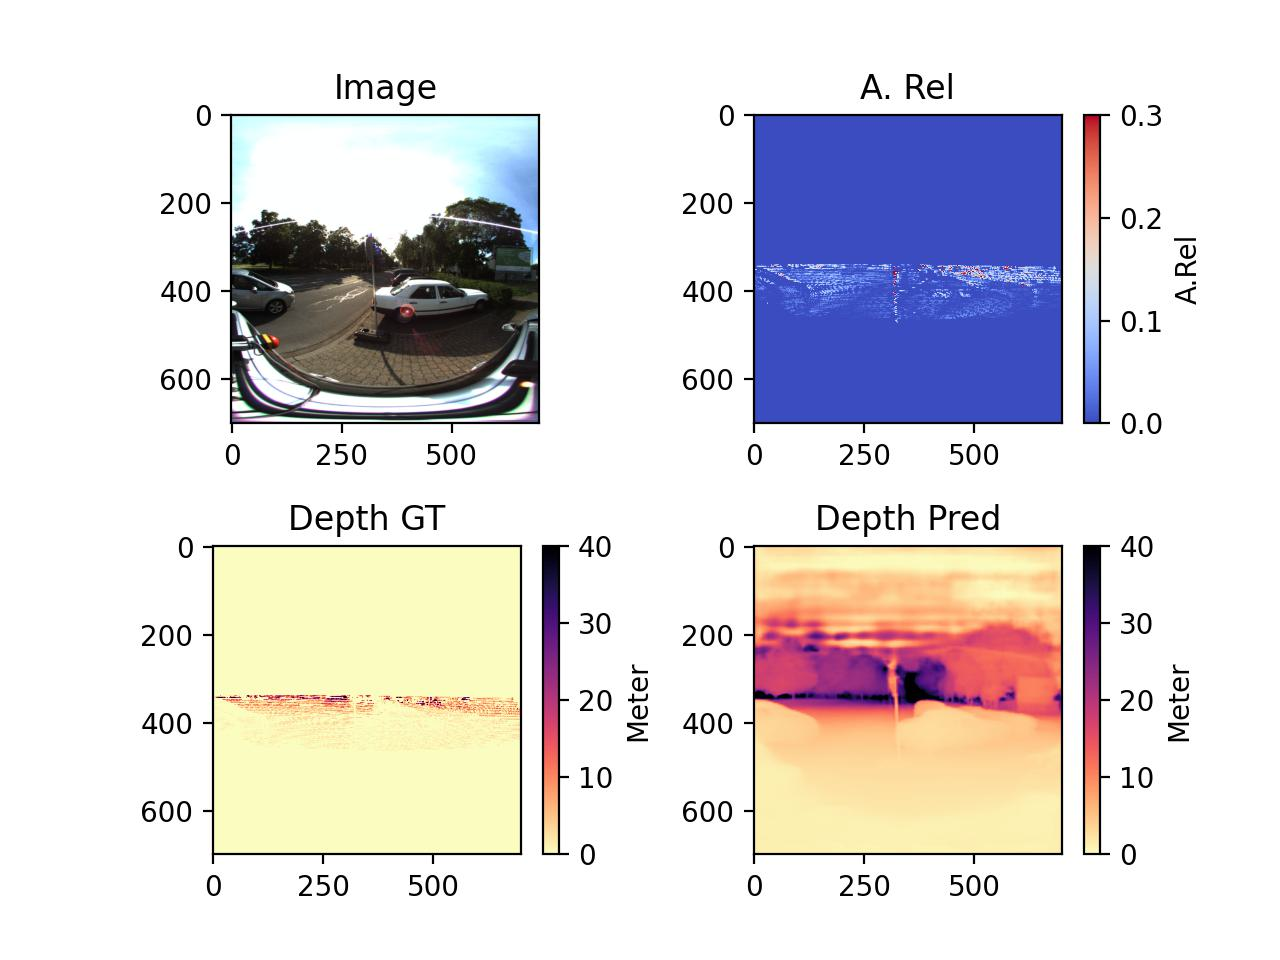
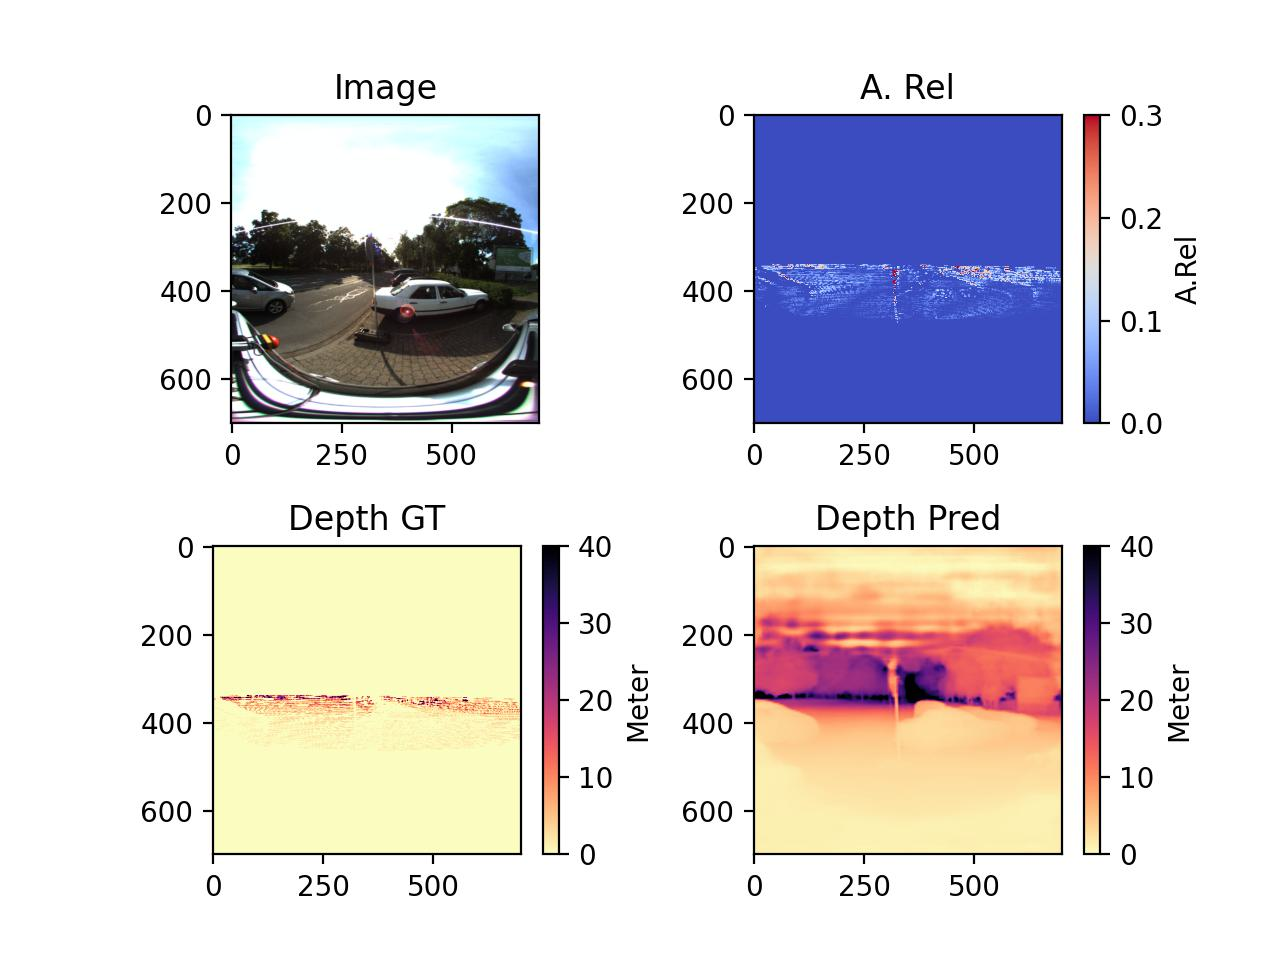
Adapt distortion model for gnomonic projection, unifying erp convertion function for all cameras

diff --git a/dac/utils/erp_geometry.py b/dac/utils/erp_geometry.py
@@ -132,15 +132,16 @@ def cam_to_erp_patch_fast(img, depth, mask_valid_depth, theta, phi, patch_h, pat
         torch.linspace(theta - wFOV_tgt/2, theta + wFOV_tgt/2, patch_w))
     lon_grid = lon_grid.float().reshape(1, -1)  # .repeat(num_rows*num_cols, 1)
     lat_grid = lat_grid.float().reshape(1, -1)  # .repeat(num_rows*num_cols, 1)
-    
+        
     # TODO: lat_grid may need cap to -pi/2 and pi/2 if crop size is large and pitch angle is large
-
     # compute corresponding perp image coordinates via Gnomonic Project explicitly (x, y given sphere radius 1 or f=1 perspective image)
     cos_c = torch.sin(cp[..., 1]) * torch.sin(lat_grid) + torch.cos(cp[..., 1]) * torch.cos(lat_grid) * torch.cos(
         lon_grid - cp[..., 0])
-    new_x = (torch.cos(lat_grid) * torch.sin(lon_grid - cp[..., 0])) / cos_c
-    new_y = (torch.cos(cp[..., 1]) * torch.sin(lat_grid) - torch.sin(cp[..., 1]) * torch.cos(lat_grid) * torch.cos(
-        lon_grid - cp[..., 0])) / cos_c
+    x_num = (torch.cos(lat_grid) * torch.sin(lon_grid - cp[..., 0]))
+    y_num = (torch.cos(cp[..., 1]) * torch.sin(lat_grid) - torch.sin(cp[..., 1]) * torch.cos(lat_grid) * torch.cos(
+        lon_grid - cp[..., 0]))
+    new_x = x_num / cos_c
+    new_y = y_num / cos_c
 
     # OPTIONAL: apply camera roll correction
     if roll is not None:
@@ -150,7 +151,7 @@ def cam_to_erp_patch_fast(img, depth, mask_valid_depth, theta, phi, patch_h, pat
         new_x = new_x_tmp
         new_y = new_y_tmp
 
-    # Scale augmentation can just modify new_x and new_y directly, with depth factor (TODO: should this be applied before projection? should not affect perspective projection)
+    # Scale augmentation can just modify new_x and new_y directly, with depth factor
     if scale_fac is not None:
         new_x *= scale_fac
         new_y *= scale_fac
@@ -159,7 +160,7 @@ def cam_to_erp_patch_fast(img, depth, mask_valid_depth, theta, phi, patch_h, pat
 
     # Important: this normalization needs to use the source perspective image FOV, for the grid sample function range [-1, 1]
     # Gnomonic Projection for OPENCV_FISHEYE model, only works for FOV < 180 degree
-    if cam_params['dataset'] == 'scannetpp' or cam_params['camera_model'] == 'OPENCV_FISHEYE':    
+    if 'camera_model' in cam_params.keys() and cam_params['camera_model'] == 'OPENCV_FISHEYE':    
         """
             Apply opencv distortion (Refer to: OpenCV)
         """
@@ -172,14 +173,19 @@ def cam_to_erp_patch_fast(img, depth, mask_valid_depth, theta, phi, patch_h, pat
         cx = cam_params['cx']
         cy = cam_params['cy']
 
-        r = np.sqrt(new_x*new_x + new_y*new_y)
-        theta = np.arctan(r)
+        # Option 1: original opencv fisheye distortion can not handle FOV >=180 degree or cos_c <= 0
+        # r = np.sqrt(new_x*new_x + new_y*new_y)
+        # theta = np.arctan(r)
+        # theta_d = theta * (1 + k1*theta*theta + k2*theta**4 + k3*theta**6 + k4*theta**8)        
+        # x_d = theta_d * new_x / (r+1e-9)
+        # y_d = theta_d * new_y / (r+1e-9)
 
-        # apply distortion
+        # Option 2: A more numerically stable version able to handle FOV >=180 degree, adapted for Gnomonic Projection
+        r = np.sqrt(x_num*x_num + y_num*y_num)
+        theta = np.arccos(cos_c)
         theta_d = theta * (1 + k1*theta*theta + k2*theta**4 + k3*theta**6 + k4*theta**8)
-        
-        x_d = theta_d * new_x / (r+1e-9)
-        y_d = theta_d * new_y / (r+1e-9)
+        x_d = theta_d * x_num / (r)
+        y_d = theta_d * y_num / (r)
         
         # project to image coordinates
         new_x = fx * x_d + cx
@@ -194,7 +200,7 @@ def cam_to_erp_patch_fast(img, depth, mask_valid_depth, theta, phi, patch_h, pat
         new_y /= (img_h/2)
         
     # Gnomonic Projection for MEI model, but only works for FOV < 180 degree (kitti360 is slightly beyond 180)
-    elif cam_params['camera_model'] == 'MEI':
+    elif 'camera_model' in cam_params.keys() and cam_params['camera_model'] == 'MEI':
         xi = cam_params['xi']
         k1 = cam_params['k1']
         k2 = cam_params['k2']
@@ -205,14 +211,9 @@ def cam_to_erp_patch_fast(img, depth, mask_valid_depth, theta, phi, patch_h, pat
         cx = cam_params['cx']
         cy = cam_params['cy']
         
-        # use spherical coordinates directly to avoid sigularity
-        # TODO: convert lon to scope [-pi, 0]? Need to debug on other datasets
-        x = np.cos(lat_grid) * np.cos(lon_grid - PI_2)
-        z = np.cos(lat_grid) * np.sin(lon_grid - PI_2)
-        y = np.sin(lat_grid)
-        
-        p_u = x / (z + xi)
-        p_v = y / (z + xi)
+        # Adpated for Gnomonic Projection
+        p_u = x_num / (cos_c + xi)
+        p_v = y_num / (cos_c + xi)
 
         # apply distortion
         ro2 = p_u*p_u + p_v*p_v
@@ -241,7 +242,7 @@ def cam_to_erp_patch_fast(img, depth, mask_valid_depth, theta, phi, patch_h, pat
     #     fy = cam_params['fy']
     #     cx = cam_params['cx']
     #     cy = cam_params['cy']
-        
+    #
     #     """
     #         Apply distortion (Refer to: NYUv2 Toolbox and http://www.vision.caltech.edu/bouguetj/calib_doc/)
     #     """

diff --git a/dac/dataloders/kitti360_erp.py b/dac/dataloders/kitti360_erp.py
@@ -11,7 +11,7 @@ import random
 from PIL import Image
 
 from .dataset import BaseDataset, resize_for_input
-from dac.utils.erp_geometry import fisheye_mei_to_erp
+from dac.utils.erp_geometry import fisheye_mei_to_erp, cam_to_erp_patch_fast
 
 class KITTI360ERPDataset(BaseDataset):
     CAM_INTRINSIC = {
@@ -32,7 +32,8 @@ class KITTI360ERPDataset(BaseDataset):
     }
     
     camera_params_02 = {
-        "model_type": "MEI",
+        "dataset": "kitti360",
+        "camera_model": "MEI",
         "camera_name": "image_02",
         "image_width": 1400,
         "image_height": 1400,
@@ -48,7 +49,8 @@ class KITTI360ERPDataset(BaseDataset):
     }
     
     camera_params_03 = {
-        "model_type": "MEI",
+        "dataset": "kitti360",
+        "camera_model": "MEI",
         "camera_name": "image_03",
         "image_width": 1400,
         "image_height": 1400,
@@ -104,7 +106,6 @@ class KITTI360ERPDataset(BaseDataset):
             self.mask_fisheye02 = (np.load(os.path.join('splits', 'kitti360', 'mask_left_fisheye.npy'))==0).astype(np.uint8)
             self.mask_fisheye03 = (np.load(os.path.join('splits', 'kitti360', 'mask_right_fisheye.npy'))==0).astype(np.uint8)
             # Convert fisheye masks to erp masks
-            # if self.erp:
             self.mask_fisheye02 = fisheye_mei_to_erp(self.mask_fisheye02, self.camera_params_02, self.fwd_sz)
             self.mask_fisheye03 = fisheye_mei_to_erp(self.mask_fisheye03, self.camera_params_03, self.fwd_sz)
             self.mask_fisheye02 = cv2.resize(self.mask_fisheye02, (self.fwd_sz[1], self.fwd_sz[0]), interpolation=cv2.INTER_NEAREST)
@@ -168,15 +169,36 @@ class KITTI360ERPDataset(BaseDataset):
             info["camera_intrinsics"] = self.CAM_INTRINSIC['03'][:, :3].clone()
             cam_params = self.camera_params_03
         
-        # convert fisheye to erp (do not use the gnomonic projection, which is limited to FOV < 180 degree)
-        image = fisheye_mei_to_erp(image, cam_params, (image.shape[0], image.shape[1]))
-        depth = fisheye_mei_to_erp(depth, cam_params, (image.shape[0], image.shape[1]))
-        lat_range = torch.tensor([-np.pi/2, np.pi/2], dtype=torch.float32)
-        long_range = torch.tensor([-np.pi/2, np.pi/2], dtype=torch.float32)
+        # # convert fisheye to erp (do not use the gnomonic projection ()
+        # image = fisheye_mei_to_erp(image, cam_params, (image.shape[0], image.shape[1]))
+        # depth = fisheye_mei_to_erp(depth, cam_params, (image.shape[0], image.shape[1]))
+        # lat_range = torch.tensor([-np.pi/2, np.pi/2], dtype=torch.float32)
+        # long_range = torch.tensor([-np.pi/2, np.pi/2], dtype=torch.float32)
+        
+        phi = np.array(0).astype(np.float32)
+        roll = np.array(0).astype(np.float32)
+        theta = 0
+
+        image = image.astype(np.float32) / 255.0
+        depth = np.expand_dims(depth, axis=2)
+        mask_valid_depth = depth > 0.01
+                
+        # Automatically calculate the erp crop size
+        crop_width = int(self.cano_sz[0])
+        crop_height = int(crop_width * self.fwd_sz[0] / self.fwd_sz[1])
+        
+        # convert to ERP
+        image, depth, _, erp_mask, latitude, longitude = cam_to_erp_patch_fast(
+            image, depth, (mask_valid_depth * 1.0).astype(np.float32), theta, phi,
+            crop_height, crop_width, self.cano_sz[0],  self.cano_sz[0]*2, cam_params, roll, scale_fac=None
+        )
+        lat_range = torch.tensor([float(np.min(latitude)), float(np.max(latitude))])
+        long_range = torch.tensor([float(np.min(longitude)), float(np.max(longitude))])
+        
         
         # resizing process to fwd_sz.
         to_cano_ratio = self.cano_sz[0] / image.shape[0]
-        image, depth, pad, pred_scale_factor = resize_for_input(image, depth, self.fwd_sz, info["camera_intrinsics"], self.cano_sz, to_cano_ratio)
+        image, depth, pad, pred_scale_factor, attn_mask = resize_for_input((image * 255.).astype(np.uint8), depth, self.fwd_sz, info["camera_intrinsics"], self.cano_sz, to_cano_ratio, mask=erp_mask)
         info['pred_scale_factor'] = info['pred_scale_factor'] * pred_scale_factor
         info['pad'] = pad
         if not self.test_mode:
@@ -190,7 +212,7 @@ class KITTI360ERPDataset(BaseDataset):
             else:
                 no_border_mask = None
         else:
-            no_border_mask = np.ones_like(depth)
+            no_border_mask = attn_mask > 0
 
         image, gts, info = self.transform(image=image, gts={"depth": depth, 'attn_mask': no_border_mask}, info=info)
                 

diff --git a/demo/demo_dac_outdoor.py b/demo/demo_dac_outdoor.py
@@ -36,6 +36,7 @@ SAMPLE_1 = {
     "annotation_filename_depth": "demo/input/kitti360_depth.png",
     "depth_scale": 256.0,
     "fishey_grid": "splits/kitti360/grid_fisheye_02.npy",
+    "crop_wFoV": 180, # degree decided by origianl data fov + some buffer
     "fwd_sz": (700, 700), # the patch size input to the model
     "erp": False,
     "cam_params": {
@@ -105,34 +106,25 @@ def demo_one_sample(model, model_name, device, sample, cano_sz, args: argparse.N
             depth = depth * np.sqrt((x - sample["cam_params"]['cx'])**2 + (y - sample["cam_params"]['cy'])**2 + sample["cam_params"]['fx']**2) / sample["cam_params"]['fx']
             depth = depth.astype(np.float32)
         
-        if dataset_name == 'kitti360':
-            # convert fisheye to erp (do not use the gnomonic projection, which is limited to FOV < 180 degree)
-            image = fisheye_mei_to_erp(image, sample["cam_params"], (image.shape[0], image.shape[1]))
-            depth = fisheye_mei_to_erp(depth, sample["cam_params"], (image.shape[0], image.shape[1]))
-            lat_range = torch.tensor([-np.pi/2, np.pi/2], dtype=torch.float32)
-            long_range = torch.tensor([-np.pi/2, np.pi/2], dtype=torch.float32)
-            image = image.astype(np.float32) / 255.0
-            erp_mask = np.ones_like(depth)
-        else:
-            phi = np.array(0).astype(np.float32)
-            roll = np.array(0).astype(np.float32)
-            theta = 0
+        phi = np.array(0).astype(np.float32)
+        roll = np.array(0).astype(np.float32)
+        theta = 0
 
-            image = image.astype(np.float32) / 255.0
-            depth = np.expand_dims(depth, axis=2)
-            mask_valid_depth = depth > 0.01
-                    
-            # Automatically calculate the erp crop size
-            crop_width = int(cano_sz[0] * sample["crop_wFoV"] / 180)
-            crop_height = int(crop_width * fwd_sz[0] / fwd_sz[1])
-            
-            # convert to ERP
-            image, depth, _, erp_mask, latitude, longitude = cam_to_erp_patch_fast(
-                image, depth, (mask_valid_depth * 1.0).astype(np.float32), theta, phi,
-                crop_height, crop_width, cano_sz[0], cano_sz[0]*2, sample["cam_params"], roll, scale_fac=None
-            )
-            lat_range = torch.tensor([float(np.min(latitude)), float(np.max(latitude))])
-            long_range = torch.tensor([float(np.min(longitude)), float(np.max(longitude))])
+        image = image.astype(np.float32) / 255.0
+        depth = np.expand_dims(depth, axis=2)
+        mask_valid_depth = depth > 0.01
+                
+        # Automatically calculate the erp crop size
+        crop_width = int(cano_sz[0] * sample["crop_wFoV"] / 180)
+        crop_height = int(crop_width * fwd_sz[0] / fwd_sz[1])
+        
+        # convert to ERP
+        image, depth, _, erp_mask, latitude, longitude = cam_to_erp_patch_fast(
+            image, depth, (mask_valid_depth * 1.0).astype(np.float32), theta, phi,
+            crop_height, crop_width, cano_sz[0], cano_sz[0]*2, sample["cam_params"], roll, scale_fac=None
+        )
+        lat_range = torch.tensor([float(np.min(latitude)), float(np.max(latitude))])
+        long_range = torch.tensor([float(np.min(longitude)), float(np.max(longitude))])
             
         # resizing process to fwd_sz.
         image, depth, pad, pred_scale_factor, attn_mask = resize_for_input((image * 255.).astype(np.uint8), depth, fwd_sz, None, [image.shape[0], image.shape[1]], 1.0, padding_rgb=[0, 0, 0], mask=erp_mask)

diff --git a/demo/demo_dac_single.py b/demo/demo_dac_single.py
@@ -62,34 +62,25 @@ def demo_one_sample(model, model_name, device, sample, cano_sz, args: argparse.N
             depth = depth / fisheye_grid_z
             depth = depth.astype(np.float32)
             
-        if dataset_name == 'kitti360':
-            # convert fisheye to erp (do not use the gnomonic projection, which is limited to FOV < 180 degree)
-            image = fisheye_mei_to_erp(image, sample["cam_params"], (image.shape[0], image.shape[1]))
-            depth = fisheye_mei_to_erp(depth, sample["cam_params"], (image.shape[0], image.shape[1]))
-            lat_range = torch.tensor([-np.pi/2, np.pi/2], dtype=torch.float32)
-            long_range = torch.tensor([-np.pi/2, np.pi/2], dtype=torch.float32)
-            image = image.astype(np.float32) / 255.0
-            erp_mask = np.ones_like(depth)
-        else:
-            phi = np.array(0).astype(np.float32)
-            roll = np.array(0).astype(np.float32)
-            theta = 0
+        phi = np.array(0).astype(np.float32)
+        roll = np.array(0).astype(np.float32)
+        theta = 0
 
-            image = image.astype(np.float32) / 255.0
-            depth = np.expand_dims(depth, axis=2)
-            mask_valid_depth = depth > 0.01
-                    
-            # Automatically calculate the erp crop size
-            crop_width = int(cano_sz[0] * sample["crop_wFoV"] / 180)
-            crop_height = int(crop_width * fwd_sz[0] / fwd_sz[1])
-            
-            # convert to ERP
-            image, depth, _, erp_mask, latitude, longitude = cam_to_erp_patch_fast(
-                image, depth, (mask_valid_depth * 1.0).astype(np.float32), theta, phi,
-                crop_height, crop_width, cano_sz[0], cano_sz[0]*2, sample["cam_params"], roll, scale_fac=None
-            )
-            lat_range = torch.tensor([float(np.min(latitude)), float(np.max(latitude))])
-            long_range = torch.tensor([float(np.min(longitude)), float(np.max(longitude))])
+        image = image.astype(np.float32) / 255.0
+        depth = np.expand_dims(depth, axis=2)
+        mask_valid_depth = depth > 0.01
+                
+        # Automatically calculate the erp crop size
+        crop_width = int(cano_sz[0] * sample["crop_wFoV"] / 180)
+        crop_height = int(crop_width * fwd_sz[0] / fwd_sz[1])
+        
+        # convert to ERP
+        image, depth, _, erp_mask, latitude, longitude = cam_to_erp_patch_fast(
+            image, depth, (mask_valid_depth * 1.0).astype(np.float32), theta, phi,
+            crop_height, crop_width, cano_sz[0], cano_sz[0]*2, sample["cam_params"], roll, scale_fac=None
+        )
+        lat_range = torch.tensor([float(np.min(latitude)), float(np.max(latitude))])
+        long_range = torch.tensor([float(np.min(longitude)), float(np.max(longitude))])
                 
         # resizing process to fwd_sz.
         image, depth, pad, pred_scale_factor, attn_mask = resize_for_input((image * 255.).astype(np.uint8), depth, fwd_sz, None, [image.shape[0], image.shape[1]], 1.0, padding_rgb=[0, 0, 0], mask=erp_mask)

diff --git a/dac/dataloders/kitti360.py b/dac/dataloders/kitti360.py
@@ -33,7 +33,8 @@ class KITTI360Dataset(BaseDataset):
     }
     
     camera_params_02 = {
-        "model_type": "MEI",
+        "dataset": "kitti360",
+        "camera_model": "MEI",
         "camera_name": "image_02",
         "image_width": 1400,
         "image_height": 1400,
@@ -49,7 +50,8 @@ class KITTI360Dataset(BaseDataset):
     }
     
     camera_params_03 = {
-        "model_type": "MEI",
+        "dataset": "kitti360",
+        "camera_model": "MEI",
         "camera_name": "image_03",
         "image_width": 1400,
         "image_height": 1400,

diff --git a/dac/dataloders/kitti_erp_online.py b/dac/dataloders/kitti_erp_online.py
@@ -154,6 +154,7 @@ class KITTIERPOnlineDataset(BaseDataset):
         cam_intrinsics = self.CAM_INTRINSIC[image_path.split("/")[2]][:, :3]
         cam_params = {
             'dataset': 'kitti',
+            'camera_model': 'PINHOLE',
             'wFOV': np.arctan(1242 / 2 / cam_intrinsics[0, 0]) * 2,
             'hFOV': np.arctan(375 / 2 / cam_intrinsics[1, 1]) * 2,
             'width': 1242,

diff --git a/README.md b/README.md
@@ -72,11 +72,12 @@ We highlight the **best** and *second best* results in **bold** and *italic* res
 
 ## Catalog
 
-- [x] Pytorch implementation of DepthAnyCamera (DAC) training from mix of perspective camera data.
-- [x] Testing and evaluation pipeline of zero-shot metric depth estimation on perspective, fisheye and 360 datasets.
-- [x] Release of pre-trained DAC models from moderate size training data.
+- [x] Release of pre-trained DepthAnyCamera (DAC) models trained on moderately sized datasets.
+- [x] Demo code for easy setup and usage.
+- [x] Testing and evaluation pipeline for zero-shot metric depth estimation on perspective, fisheye, and 360-degree datasets.
+- [x] Complete DepthAnyCamera (DAC) training pipeline using mixed perspective camera data.
 - [x] Complete data preparation and curation scripts.
-- [TBD] Foundation-level model trained from large scale mixture of datasets, including perspective, fisheye, 360 camera data in training.
+- [TBD] Foundation-level model trained on a large-scale, diverse dataset mixture, encompassing perspective, fisheye, and 360-degree camera data.
 
 
 # Usage
